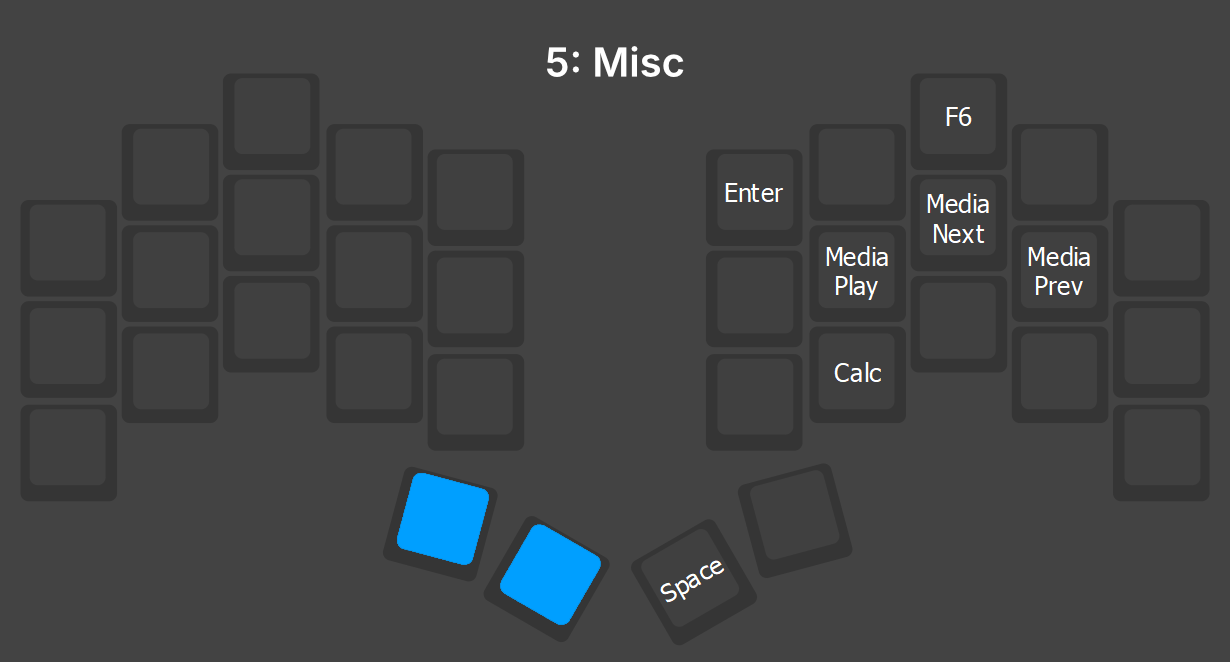
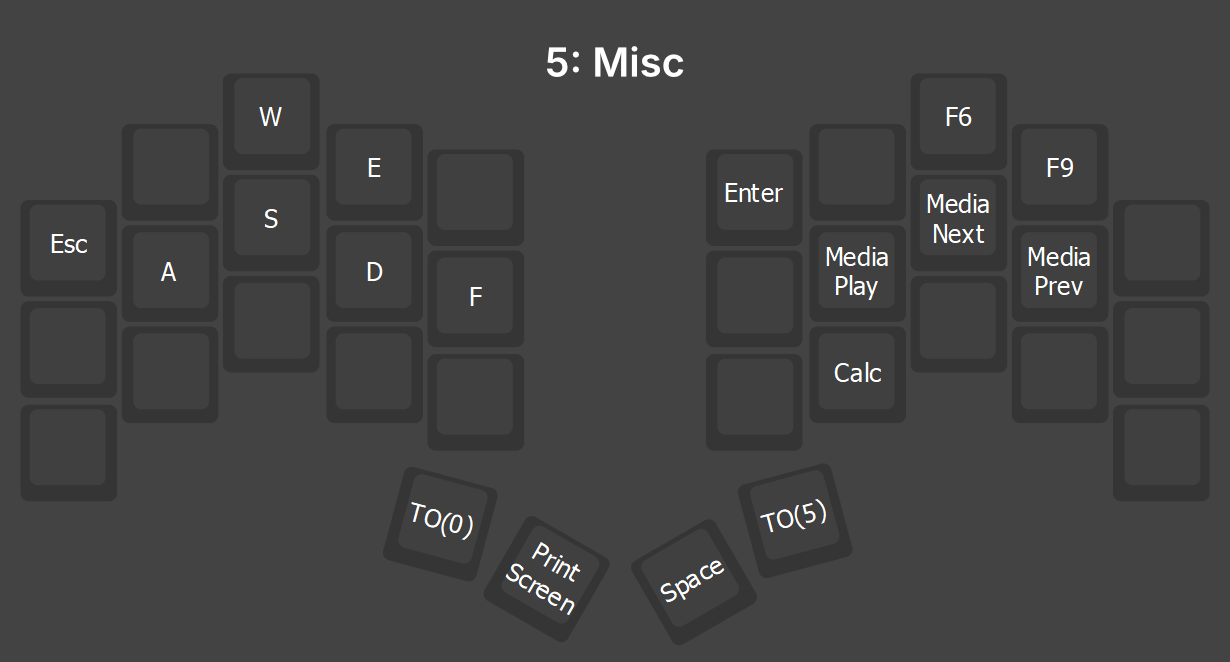
A lot of tiny optimizations and an updated  VIAL layout file. Turned off Permissive Hold.

diff --git a/README.md b/README.md
@@ -42,7 +42,7 @@ QMK does not allow you to use the Mod Tap functionality on Shifted keys, but I w
 
 **TD(0)** is defined in Vial as **"** on tap and **Shift** on Hold. **TD(1)** is defined as **:** on tap and **Alt** on hold. 
 
-This results in the home row being **<pre>( ) { } &      ^ " ' : ;</pre>**
+This results in the home row being **<pre>( ) { } &      # " ' : ;</pre>**
 
 Having the **=** and **-** keys also on this layer is must for coding and it feels way better on the left side in this case. It lets me type common bigrams like **->**, **>=**, and **<=** quickly.
 
@@ -62,11 +62,13 @@ Keeping the uppercase letters on a separate layer activated by the thumbs allows
 
 [Home Row Mods](https://precondition.github.io/home-row-mods) put your Shift, Ctrl, Alt, and Windows/CMD key on the 8 keys your fingers rest on when touch typing. Tapping the key triggers the normal letter, but holding it activates the modifier. This is amazing for keyboards of any size but it also introduces issues like misfires when rolling keys and adding a slight delay to the keys they are on. These issues drove me insane and so the perfect solution was to just put them on a separate layer that was easily accessible.
 
+I also put Ctrl on the thumb for more comfort when hitting Ctrl-U and Ctrl-D a lot for half-page up/down in nvim. Alt + Backspace on the thumb is nice for doing a color fill in Affinity Photo 2 or Photoshop. I made the [Misc layer](#5-misc) a one shot so you can take a screenshot or do whatever and then be back at layer 0.
+
 ## 5: Misc
 
 <img src="images/graphite-code-5.png" alt="graphite layout" width="600"/>
 
-I do not actually use this layer, but I wanted to include a layer where I think you could put any extra random things.
+I use this layer for print screen and F6 mostly. I can press the TO(5) button on the right thumb to keep this layer locked in for WASD movement in game engines. 
 
 ## Firmware
 
@@ -119,6 +121,8 @@ qmk compile -kb ferris/sweep -km vial -e CONVERT_TO=blok
 - [Apple Magic Trackpad](https://www.amazon.com/dp/B0DL6L6HPG) - I have tried every conceivable type of "mouse" and this is the only thing that doesn't hurt after long-term use. Tented at 40 degrees.
 
 - [VIVO Keyboard Tray](https://www.amazon.com/dp/B07HFDJCSL) - Having your arms and legs bent at 90 degrees is crucial for ergonomics. The only way most of us can do this is with a keyboard tray. Once you introduce tenting, it makes a tray more necessary.
+
+- [Koolertron 23 Key Keyboard](https://www.amazon.com/dp/B07RM1TBR8) - This is what I actually use for gaming. It comes with linear red switches and even came with an extra set of high quality white PBT keycaps. The best part is that it has full QMK layer support in VIAL!
 
 ## Resources
 
